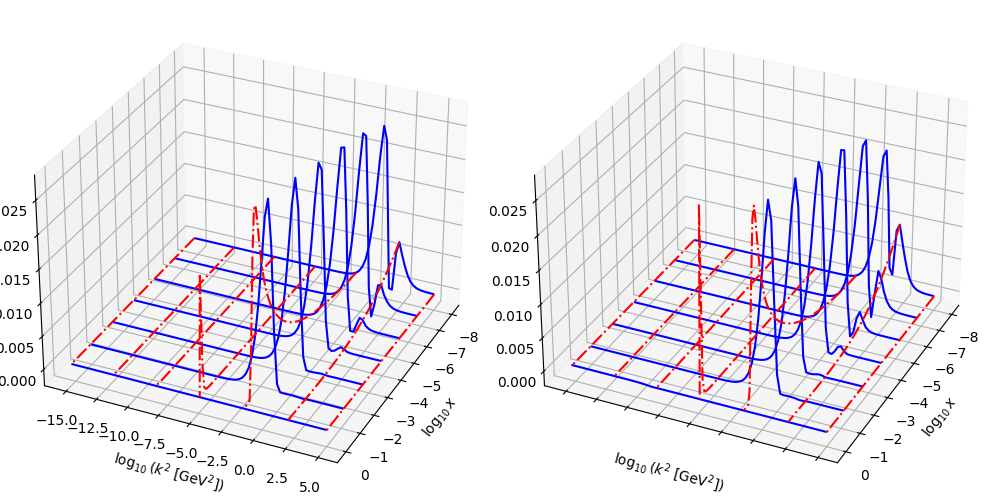
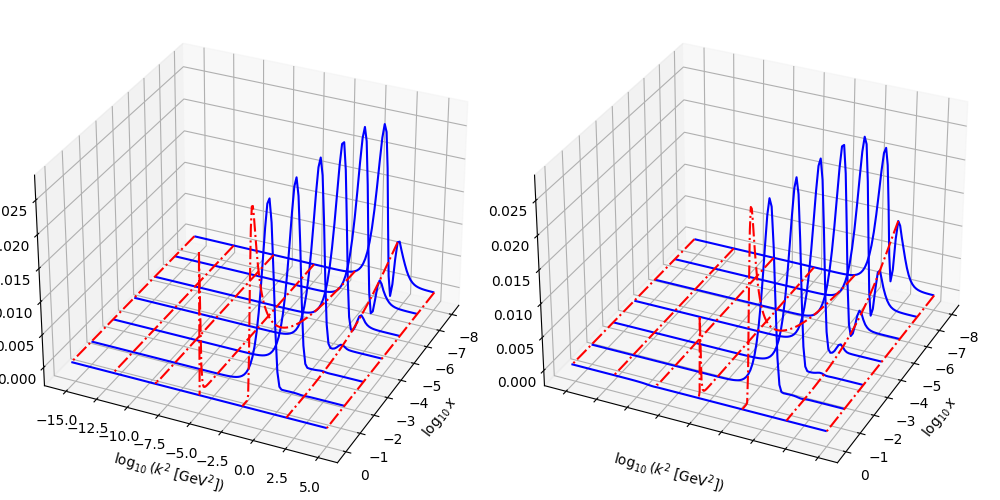
minor

diff --git a/saturation-ver3/plot.py b/saturation-ver3/plot.py
@@ -94,10 +94,11 @@ def main():
         if (labels!=[] and labels[counter]!=""):
         	legs.append(leg[0])
         counter+=1
-    #if labels!=[]:
-    #    labels.remove("")
-    #    if len(legs)>0:
-    #        ax.legend(legs,labels)
+    print("LABELS ", labels);
+    if "" in labels:
+        labels.remove("")
+        if len(legs)>0:
+            ax.legend(legs,labels)
     ax.set(title=plottitle,  ylabel=axes[1],    xlabel=axes[0],  xscale= xs ,   yscale=ys )
     if(xlim[0]!=xlim[1]):
         ax.set_xlim(xlim[0],xlim[1])

diff --git a/saturation-ver3/Functions/main.cc b/saturation-ver3/Functions/main.cc
@@ -133,8 +133,8 @@ int main(int argc, char** argv){
 #endif//USE_RESULT
 	ROOT::Minuit2::MnMachinePrecision prec;
 	//prec.SetPrecision(1.0e-8);
-	INT_PREC=5.0e-4;
-	N_APPROX=N_CHEB_R/2;
+	INT_PREC=1.0e-4;
+	N_APPROX=N_CHEB_R;
 	//prec.SetPrecision(INT_PREC);
 	int flag=0;
 	double goal=1;

diff --git a/saturation-ver3/kt-formula-report1/kt-formula-report1.tex b/saturation-ver3/kt-formula-report1/kt-formula-report1.tex
@@ -398,6 +398,7 @@ $\mathrm{BGK+Sud}$& $m_l=0.0$ & 22.2 & 8.67 & -0.500 & 0.670 & 3.83 & 1.21 \\ \h
 \end{table}
 
 
+
 \begin{figure}
 \includegraphics[width=0.475\textwidth]{./dipole-GBW.png}
 \includegraphics[width=0.475\textwidth]{./dipole-BGK.png}
